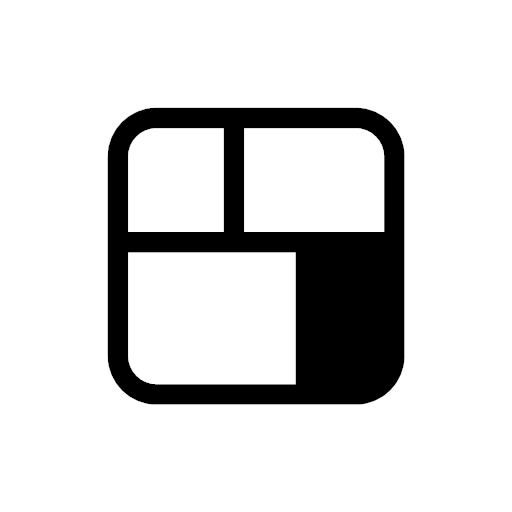
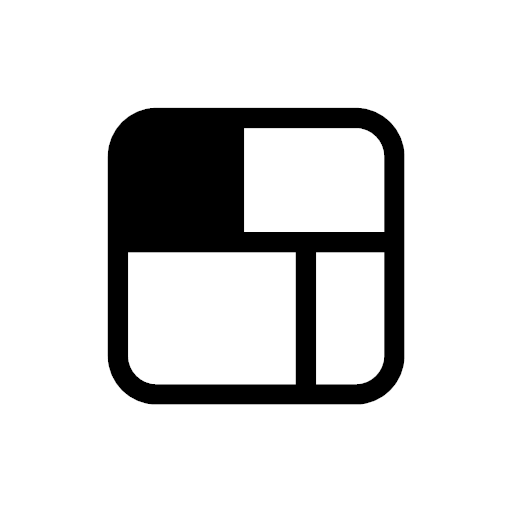
아이콘 채우는 칸을 왼쪽 위로 되돌리기
왼쪽 위를 검게 채우는 건 앱의 패널 탭(01|LAYOUT) 모양과 닮게 하려는 의도였다.
검정·둥근 모서리·크기는 그대로 두고 채우는 칸만 되돌린다.

캐시 버전 v=9 → v=10

Claude-Session: https://claude.ai/code/session_01BZvQWwQEkZxQ2Eqxo7Tj1B

Changed region(s): [[0.5938, 0.4688, 0.75, 0.75], [0.25, 0.25, 0.4375, 0.4688]]

diff --git a/index.html b/index.html
@@ -14,9 +14,9 @@
 <meta name="apple-mobile-web-app-status-bar-style" content="default">
 <!-- 홈 화면 아래 이름. 길면 iOS 가 잘라 버린다. -->
 <meta name="apple-mobile-web-app-title" content="IMG Collage">
-<link rel="apple-touch-icon" href="icons/apple-touch-icon.png?v=9">
-<link rel="icon" href="icons/favicon.png?v=9" sizes="64x64" type="image/png">
-<link rel="manifest" href="manifest.webmanifest?v=9">
+<link rel="apple-touch-icon" href="icons/apple-touch-icon.png?v=10">
+<link rel="icon" href="icons/favicon.png?v=10" sizes="64x64" type="image/png">
+<link rel="manifest" href="manifest.webmanifest?v=10">
 
 <link rel="preconnect" href="https://fonts.googleapis.com">
 <link rel="preconnect" href="https://fonts.gstatic.com" crossorigin>
@@ -24,16 +24,16 @@
 <link rel="stylesheet" href="https://fonts.googleapis.com/css2?family=Gowun+Batang:wght@400;700&family=Nanum+Myeongjo:wght@400;700;800&family=Noto+Sans+KR:wght@300;400;700&family=Noto+Serif+KR:wght@300;400;700&display=swap">
 <!-- ?v= 는 캐시 무효화용. 파일을 고쳐 배포할 때마다 아래 숫자를 전부 같이 올린다.
      (모듈까지 한 번에 갱신되도록 임포트 맵으로 묶어 뒀다) -->
-<link rel="stylesheet" href="css/fonts.css?v=9">
-<link rel="stylesheet" href="css/style.css?v=9">
+<link rel="stylesheet" href="css/fonts.css?v=10">
+<link rel="stylesheet" href="css/style.css?v=10">
 <script type="importmap">
 {
   "imports": {
-    "app/state.js":    "./js/state.js?v=9",
-    "app/geometry.js": "./js/geometry.js?v=9",
-    "app/render.js":   "./js/render.js?v=9",
-    "app/files.js":    "./js/files.js?v=9",
-    "app/ui.js":       "./js/ui.js?v=9"
+    "app/state.js":    "./js/state.js?v=10",
+    "app/geometry.js": "./js/geometry.js?v=10",
+    "app/render.js":   "./js/render.js?v=10",
+    "app/files.js":    "./js/files.js?v=10",
+    "app/ui.js":       "./js/ui.js?v=10"
   }
 }
 </script>
@@ -243,6 +243,6 @@
 
 <input type="file" id="fileInput" accept="image/*" multiple hidden>
 
-<script type="module" src="js/main.js?v=9"></script>
+<script type="module" src="js/main.js?v=10"></script>
 </body>
 </html>

diff --git a/README.md b/README.md
@@ -79,7 +79,7 @@ python -m http.server 8000
 
 ## 배포할 때
 
-`index.html` 안의 `?v=9` 을 전부 같은 숫자로 올린 뒤 푸시하세요.
+`index.html` 안의 `?v=10` 을 전부 같은 숫자로 올린 뒤 푸시하세요.
 CSS와 JS 모듈이 한꺼번에 새로 받아집니다. 모듈 경로는 임포트 맵으로 묶어 두어 버전이 한 곳에만 적혀 있습니다.
 
 깜빡하면 브라우저가 옛 파일을 최대 10분(GitHub Pages 의 `max-age=600`)까지 계속 씁니다.
@@ -118,8 +118,8 @@ tools/
 
 아이콘은 모서리가 둥근 사각형을 크기가 서로 다른 네 칸으로 나눈 모양입니다.
 균일한 격자 대신 칸 크기를 일부러 다르게 둔 건, 이 앱이 비율이 다른 사진을 여백 없이
-붙이는 도구라서입니다. 오른쪽 아래 작은 칸만 검게 채웠는데, 모서리가 둥근 칸을
-채우면 프레임과 뭉쳐서 한 덩어리로 보이기 때문입니다.
+붙이는 도구라서입니다. 왼쪽 위 칸을 검게 채운 건 앱의 패널 탭(01|LAYOUT) 모양과
+닮게 하려는 것입니다.
 
 아이콘을 고치려면 `icons/icon.svg` 를 손보고 `tools/make-icons.ps1` 안의 같은 상수를
 맞춘 뒤 스크립트를 실행하세요(윈도우 PowerShell, 별도 설치 없이 `System.Drawing` 사용).
